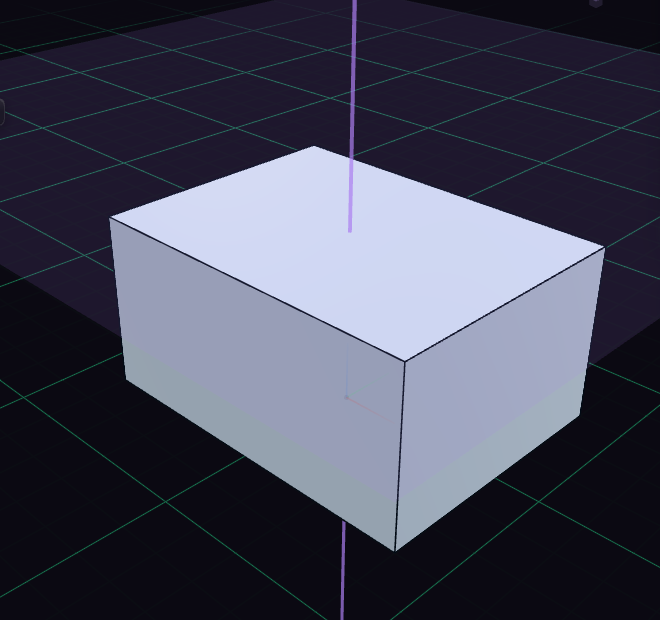
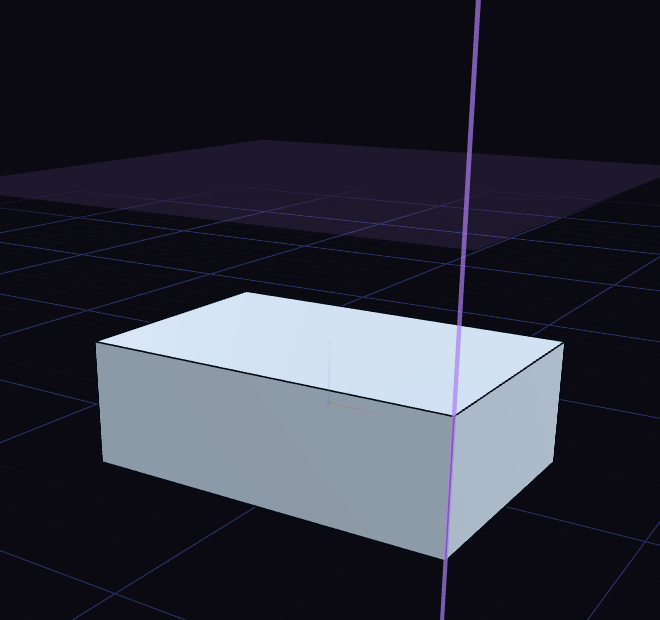
docs: The last four model pictures are retaken and value box names are explained

diff --git a/manual/docs/model/expressions.md b/manual/docs/model/expressions.md
@@ -1,12 +1,14 @@
 # Expressions
 
-An expression is a small calculation you type where a number goes, such as `width / 2`. It works in a step's values, in the value box while a tool runs, on sketch dimensions and in the Parameters dialog.
+An expression is a small calculation you type where a number goes, such as `width / 2`. Parameter names work in a step's values in the History, on sketch dimensions and in the Parameters dialog.
 
-![The Extrude distance box holding rib = width / 4](../img/expression-value.png)
+The value box of a running tool, such as Extrude, takes numbers, units and plain maths like `20 / 4` or `1 in`, but no names.
+
+![A sketch dimension's value box holding hole = width / 5](../img/expression-value.png)
 
 ## Writing one
 
-- Put a name and an equals sign first, as in `rib = width / 4`, to name the result.
+- Put a name and an equals sign first, as in `hole = width / 5`, to name the result. This works in a step's values and on sketch dimensions.
 - Units are mm, cm, in, deg and rad, so `1 in` is 25.4 mm.
 - Without a unit, a length is mm and an angle is degrees.
 - Use `+`, `-`, `*`, `/`, `^` for powers, brackets, and `PI`.
